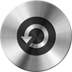
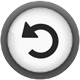
new restart button design and place in level1
The restart button take the place of the start button, after it has been
pushed

diff --git a/src/com/gt/proto_v01/Level1.java b/src/com/gt/proto_v01/Level1.java
@@ -85,6 +85,7 @@ public class Level1 extends SimpleBaseGameActivity implements
 	boolean wasOnMovePointWb1 = false;
 	boolean wasOnRotatePointWb2 = false;
 	boolean wasOnMovePointWb2 = false;
+	boolean levelPlayed=false;
 	
 	@Override
 	public EngineOptions onCreateEngineOptions() {
@@ -314,16 +315,16 @@ public class Level1 extends SimpleBaseGameActivity implements
 		// this.buttonPlay, this.getVertexBufferObjectManager());
 		// mScene.attachChild(buttonPlay);
 		
+		buttonRestart = new Sprite(CAMERA_WIDTH - 120, 40,this.buttonRestartTextureRegion,this.getVertexBufferObjectManager());
+		mScene.attachChild(buttonRestart);
+		
 		
 		buttonPlay = new Sprite(CAMERA_WIDTH - 120, 40,
 				this.buttonPlayTextureRegion,
 				this.getVertexBufferObjectManager());
 		mScene.attachChild(buttonPlay);
 		
-		buttonRestart = new Sprite(10, 10,
-				this.buttonRestartTextureRegion,
-				this.getVertexBufferObjectManager());
-		mScene.attachChild(buttonRestart);
+		
 
 		success = new Sprite(CAMERA_WIDTH / 2 - 70, CAMERA_HEIGHT / 2 - 70,
 				this.successTextureRegion, this.getVertexBufferObjectManager());
@@ -415,28 +416,30 @@ public class Level1 extends SimpleBaseGameActivity implements
 					}
 				}
 				
-				//play level
-				if (pSceneTouchEvent.getX() > CAMERA_WIDTH - 120
+				//play level and after restart
+					if (pSceneTouchEvent.getX() > CAMERA_WIDTH - 120
 						&& pSceneTouchEvent.getX() < CAMERA_WIDTH - 40) {
-					if (pSceneTouchEvent.getY() > 40
-							&& pSceneTouchEvent.getY() < 120) {
-						Vector2 gravity = new Vector2(0,
-								SensorManager.GRAVITY_EARTH);
-						this.mPhysicsWorld.setGravity(gravity);
-						mScene.detachChild(buttonPlay);
+						if (pSceneTouchEvent.getY() > 40
+								&& pSceneTouchEvent.getY() < 120) {
+							if(!levelPlayed){
+							Vector2 gravity = new Vector2(0,
+									SensorManager.GRAVITY_EARTH);
+							this.mPhysicsWorld.setGravity(gravity);
+							mScene.detachChild(buttonPlay);
+							levelPlayed=true;
+							}
+							else{ //to restart
+								Intent intent = getIntent();
+								finish();
+								startActivity(intent);
+							}
+						}
 					}
-				}
+					
 				
-				//restart level
-				if (pSceneTouchEvent.getX() > 10
-						&& pSceneTouchEvent.getX() < 82) {
-					if (pSceneTouchEvent.getY() > 10
-							&& pSceneTouchEvent.getY() < 82) {
-						Intent intent = getIntent();
-						finish();
-						startActivity(intent);
-					}
-				}
+				
+				//restart level button
+				
 
 				// Log.d("myFlags", "X is " + pSceneTouchEvent.getX()
 				// + " and Y is " + pSceneTouchEvent.getY());
